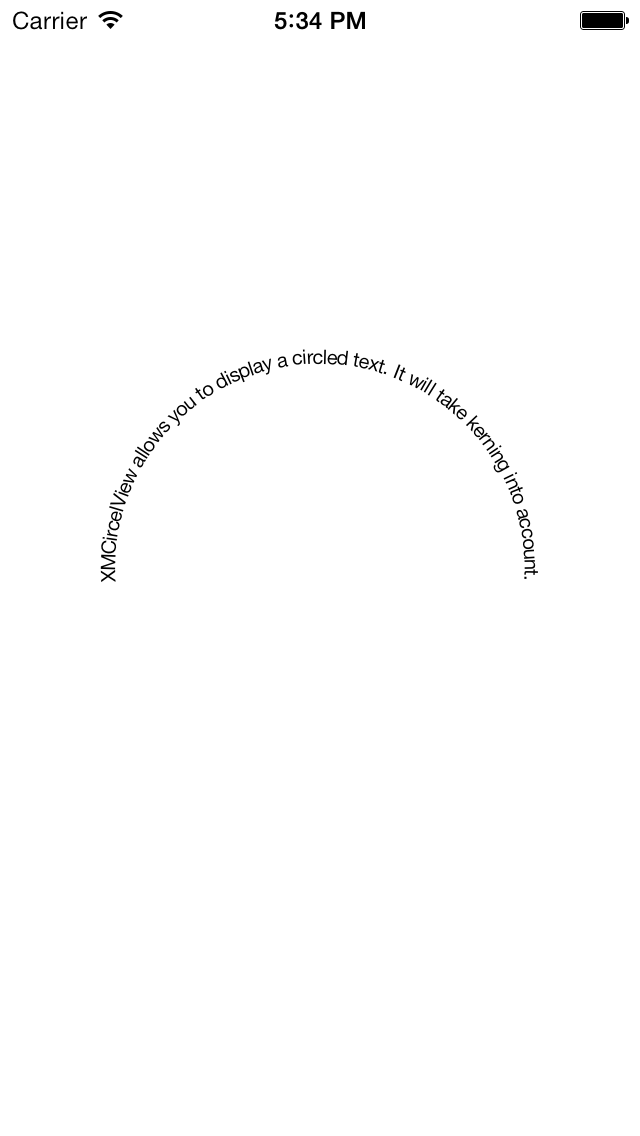
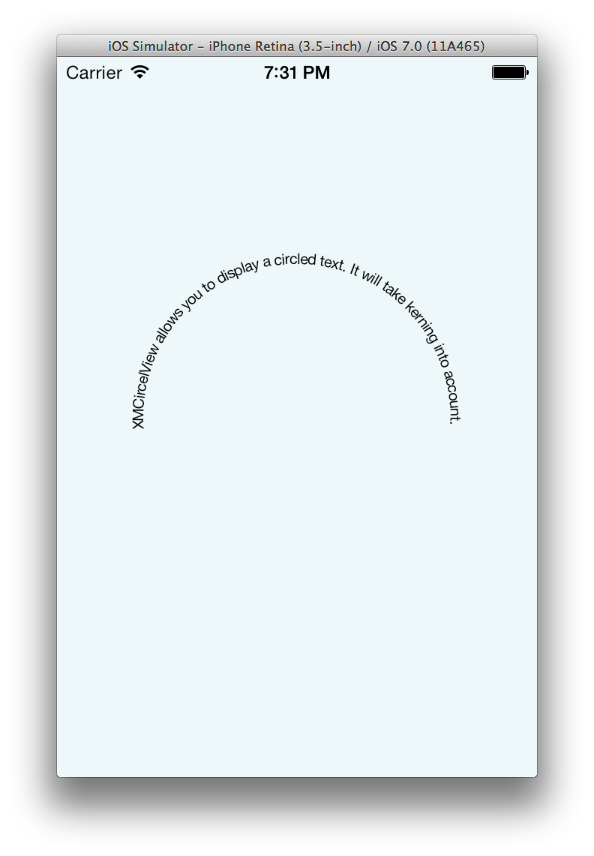
Add kerningCache and improve class commenting.

Changed region(s): [[0.0303, 0.0, 1.0, 0.972], [0.1515, 0.2734, 0.8485, 0.5164]]

diff --git a/XMCircleType/Views/XMCircleTypeView.m b/XMCircleType/Views/XMCircleTypeView.m
@@ -11,26 +11,50 @@
 @interface XMCircleTypeView ()
 
 @property (nonatomic) CGPoint circleCenterPoint;
+@property (strong,nonatomic) NSMutableDictionary *kerningCacheDictionary;
 
 @end
 
 @implementation XMCircleTypeView
 
-#define VISUAL_DEBUGGING NO
+#pragma mark - Subclassing
+
+- (id)init
+{
+    self = [super init];
+    if (self) {
+        [self initialize];
+    }
+    return self;
+}
+
+- (id)initWithCoder:(NSCoder *)aDecoder
+{
+    self = [super initWithCoder:aDecoder];
+    if (self) {
+        [self initialize];
+    }
+    return self;
+}
+
+- (id)initWithFrame:(CGRect)frame
+{
+    self = [super initWithFrame:frame];
+    if (self) {
+        [self initialize];
+    }
+    return self;
+}
+
+- (void)dealloc
+{
+    [[NSNotificationCenter defaultCenter] removeObserver:self];
+}
 
 - (void)layoutSubviews
 {
     self.circleCenterPoint = CGPointMake(self.bounds.size.width/2, self.bounds.size.height/2);
     [self setNeedsDisplay];
-}
-
-- (float) kerningForCharacter:(NSString *)currentCharacter afterCharacter:(NSString *)previousCharacter
-{
-    float totalSize = [[NSString stringWithFormat:@"%@%@", previousCharacter, currentCharacter] sizeWithAttributes:self.textAttributes].width;
-    float currentCharacterSize = [currentCharacter sizeWithAttributes:self.textAttributes].width;
-    float previousCharacterSize = [previousCharacter sizeWithAttributes:self.textAttributes].width;
-    
-    return (currentCharacterSize + previousCharacterSize) - totalSize;
 }
 
 - (void)drawRect:(CGRect)rect
@@ -96,7 +120,7 @@
         [currentCharacter drawAtPoint:stringPoint withAttributes:self.textAttributes];
         
         //If we need some visual debugging, draw the visuals.
-        if (VISUAL_DEBUGGING) {
+        if (self.visualDebug) {
             //Show Character BoundingBox
             [[UIColor colorWithRed:1 green:0 blue:0 alpha:0.5] setStroke];
             [[UIBezierPath bezierPathWithRect:CGRectMake(stringPoint.x, stringPoint.y, stringSize.width, stringSize.height)] stroke];
@@ -120,7 +144,7 @@
     }
     
     //If we need some visual debugging, draw the circle.
-    if (VISUAL_DEBUGGING) {
+    if (self.visualDebug) {
         //Show Circle
         [[UIColor greenColor] setStroke];
         [[UIBezierPath bezierPathWithArcCenter:self.circleCenterPoint radius:radius startAngle:0 endAngle:2*M_PI clockwise:YES] stroke];
@@ -134,7 +158,61 @@
     }
 }
 
-#pragma mark Getters & Setters
+#pragma mark - Private Functions
+
+- (void)initialize
+{
+    [[NSNotificationCenter defaultCenter] addObserver:self selector:@selector(handleMemoryWarning) name: UIApplicationDidReceiveMemoryWarningNotification object:nil];
+}
+
+- (void)handleMemoryWarning
+{
+    [self clearKerningCache];
+}
+
+- (float)kerningForCharacter:(NSString *)currentCharacter afterCharacter:(NSString *)previousCharacter
+{
+    //Create a unique cache key
+    NSString *kerningCacheKey = [NSString stringWithFormat:@"%@%@", previousCharacter, currentCharacter];
+    
+    //Look for kerning in the cache dictionairy
+    NSNumber *cachedKerning = [self.kerningCacheDictionary objectForKey:kerningCacheKey];
+    
+    //If kerning is found: return.
+    if (cachedKerning) {
+        return [cachedKerning floatValue];
+    }
+
+    //Otherwise, calculate.
+    float totalSize = [[NSString stringWithFormat:@"%@%@", previousCharacter, currentCharacter] sizeWithAttributes:self.textAttributes].width;
+    float currentCharacterSize = [currentCharacter sizeWithAttributes:self.textAttributes].width;
+    float previousCharacterSize = [previousCharacter sizeWithAttributes:self.textAttributes].width;
+    
+    float kerning = (currentCharacterSize + previousCharacterSize) - totalSize;
+    
+    //Store kerning in cache.
+    [self.kerningCacheDictionary setValue:@(kerning) forKey:kerningCacheKey];
+    
+    //Return kerning.
+    return kerning;
+}
+
+#pragma mark - Public Functions
+
+- (void)clearKerningCache
+{
+    self.kerningCacheDictionary = nil;
+}
+
+#pragma mark - Getters & Setters
+
+-(NSMutableDictionary *)kerningCacheDictionary
+{
+    if (self.disableKerningCache) return nil;
+
+    if (!_kerningCacheDictionary) _kerningCacheDictionary = [NSMutableDictionary new];
+    return _kerningCacheDictionary;
+}
 
 - (void)setText:(NSString *)text
 {
@@ -145,6 +223,9 @@
 - (void)setTextAttributes:(NSDictionary *)textAttributes
 {
     _textAttributes = textAttributes;
+    
+    //since the characteristics of the font changed, we need to fluch the kerning cache.
+    self.kerningCacheDictionary = nil;
     [self setNeedsDisplay];
 }
 
@@ -169,6 +250,12 @@
 - (void)setCharacterSpacing:(float)characterSpacing
 {
     _characterSpacing = characterSpacing;
+    [self setNeedsDisplay];
+}
+
+- (void)setVisualDebug:(BOOL)visualDebug
+{
+    _visualDebug = visualDebug;
     [self setNeedsDisplay];
 }
 

diff --git a/XMCircleType/Views/XMCircleTypeView.h b/XMCircleType/Views/XMCircleTypeView.h
@@ -10,12 +10,53 @@
 
 @interface XMCircleTypeView : UIView
 
+/**
+ *  Set the text to display in the XMCircleTypeView
+ */
 @property (strong, nonatomic) NSString *text;
+
+/**
+ *  Set the Text Attributes for the text.
+ *  Refer to the Text Attributes documentation for more info.
+ */
 @property (strong, nonatomic) NSDictionary *textAttributes;
+
+/**
+ *  Align the text left, right or center reletive to the baseAngle.
+ */
 @property (nonatomic) NSTextAlignment textAlignment;
 
+/**
+ *  Set the radius of the circle. 
+ *  When no radius is set, the maximum radius is calculated and used.
+ */
 @property (nonatomic) float radius;
+
+/**
+ *  Set the base angle. See textAlignment property for more information.
+ */
 @property (nonatomic) float baseAngle;
+
+/**
+ *  Adjust the spacing of the characters. 
+ *  1 = default spacing, 0.5 = half spacing, 2 = double spacing, etc ...
+ */
 @property (nonatomic) float characterSpacing;
+
+/**
+ *  Show some visual guidelines.
+ */
+@property (nonatomic) BOOL visualDebug;
+
+/**
+ *  Disable the kerning cache.
+ */
+@property (nonatomic) BOOL disableKerningCache;
+
+/**
+ *  Clear the kerning cache. 
+ *  Note that this is automaticlly done when the app gives a memory warning.
+ */
+- (void)clearKerningCache;
 
 @end

diff --git a/XMCircleType/ViewController.m b/XMCircleType/ViewController.m
@@ -24,8 +24,11 @@
     self.circleView.textAlignment = NSTextAlignmentCenter;
     self.circleView.baseAngle = 270 * M_PI / 180;
     self.circleView.characterSpacing = 0.85;
-
-    //self.circleView.radius = 100;
+    
+    self.circleView.radius = 100;
+    
+    self.circleView.visualDebug = NO;
+    self.circleView.disableKerningCache = YES;
 }
 
 @end
